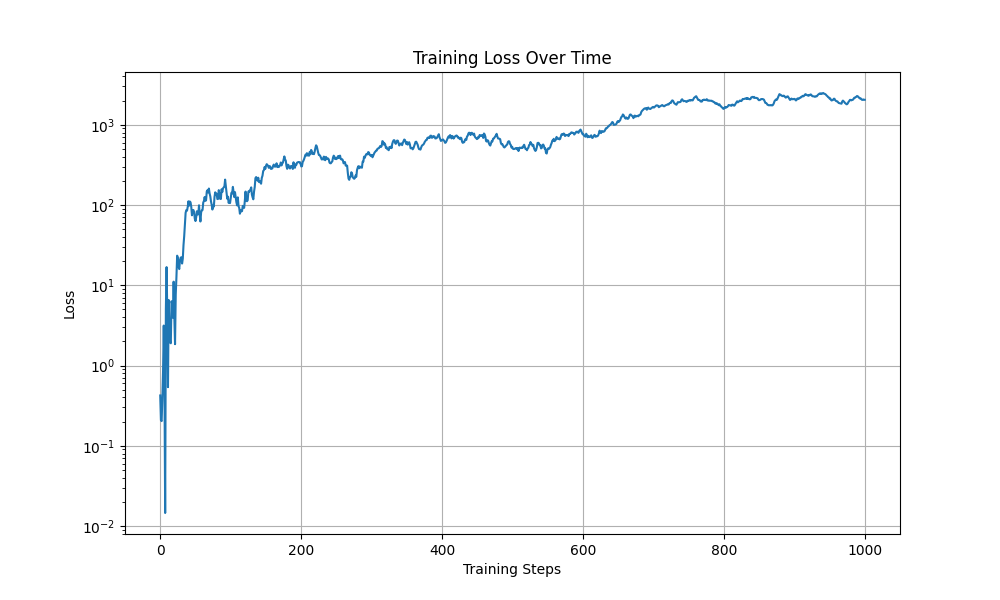
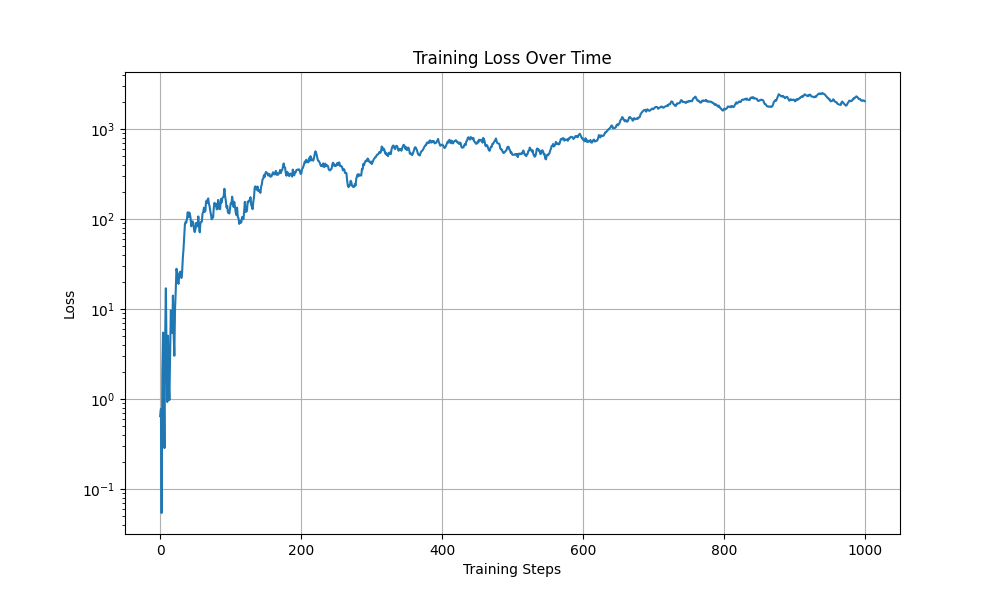
sysid not working

diff --git a/deluca/experimental/experiments.py b/deluca/experimental/experiments.py
@@ -13,7 +13,6 @@ import jax.numpy as jnp
 import matplotlib.pyplot as plt
 import optax
 from jax import debug as jax_debug
-import numpy as np
 
 from deluca.experimental.agents.agent import policy_loss, update_agentstate, AgentState
 from deluca.experimental.agents.gpc import get_gpc_features
@@ -92,7 +91,7 @@ def run_trial(
     # B: jnp.ndarray,
     # Q: jnp.ndarray,
     # R: jnp.ndarray,
-) -> Any:
+) -> jnp.ndarray:
     """Run a single trial."""
     # Create simulator and cost function
     if config.sim_type == 'lds':
@@ -100,8 +99,8 @@ def run_trial(
         A, B = create_random_system(A_B_key, config.d, config.n, config.min_eig, config.max_eig)
         key, Q_R_key = jax.random.split(key)
         Q, R = create_random_cost_matrices(Q_R_key, config.d, config.n)
-        if config.debug:
-            print(f'A.shape={A.shape}, B.shape={B.shape}, Q.shape={Q.shape}, R.shape={R.shape}')
+        # if config.debug:
+        #     print(f'A.shape={A.shape}, B.shape={B.shape}, Q.shape={Q.shape}, R.shape={R.shape}')
 
         sim = functools.partial(lds_sim, A=A, B=B)
         output_map = functools.partial(lds_output, C=jnp.eye(config.d))  # Identity output map
@@ -189,17 +188,15 @@ def run_trial(
     def scan_body(carry, t):
         agentstate, physical_state, key = carry
         # if config.debug:
-            # jax_debug.print('--- Step {} ---', t)
-            # jax_debug.print('agentstate.controller_t: {}', agentstate.controller_t)
-            # jax_debug.print('physical_state: {}', physical_state)
+        #     jax_debug.print('--- Step {} ---', t)
+        #     jax_debug.print('agentstate.controller_t: {}', agentstate.controller_t)
+        #     jax_debug.print('physical_state: {}', physical_state)
         # Get action from model
         actions = model.apply(agentstate.params, get_features(config.m, agentstate.dist_history))
         action = actions[0]
-        if config.debug:
-            action_dist_history = agentstate.dist_history
         # if config.debug:
-            # jax_debug.print('actions shape: {}', actions.shape)
-
+        #     jax_debug.print('actions shape: {}', actions.shape)
+        #     jax_debug.print('action: {}', action)
         # Step the environment
         key1, key2 = jax.random.split(key)
         next_physical_state, output = step(
@@ -225,20 +222,17 @@ def run_trial(
             debug=config.debug
         )
         # Update physical state for next iteration
-        # physical_state = next_physical_state
+        physical_state = next_physical_state
         # Compute loss for reporting
         loss = loss_fn(agentstate.params, agentstate.dist_history, agentstate.state_history[0])
         
         new_carry = (agentstate, next_physical_state, key2)
-        if config.debug:
-            return new_carry, (loss, physical_state, next_physical_state, action, action_dist_history, agentstate.dist_history, sim(physical_state, action))
-        else:
-            return new_carry, loss
+        return new_carry, loss
 
     # Run simulation with scan
     initial_carry = (initial_agentstate, initial_physical_state, loop_key)
-    
     (_, _, _), losses = jax.lax.scan(scan_body, initial_carry, jnp.arange(config.num_steps))
+    
     return losses
 
 def main():
@@ -269,74 +263,50 @@ def main():
     jitted_vmapped_run_trial = jax.jit(vmapped_run_trial)
     
     print("Compiling and running trials... (this may take a moment)")
-    all_losses = jitted_vmapped_run_trial(trial_keys)/config.k
-    # all_losses.block_until_ready() # Wait for all computations to finish
+    all_losses = jitted_vmapped_run_trial(trial_keys)
+    all_losses.block_until_ready() # Wait for all computations to finish
     print("--- All trials completed ---")
-    if config.debug:
-        loss, physical_state, next_physical_state, action, action_dist_history, agentstate_dist_history, sim_seq = all_losses
-        
-        # Save all debug arrays to .txt files
-        base_name = f"{config.sim_type}_{config.model_type}_{config.algorithm_type}"
-        arrays_dir = os.path.join('results', 'arrays')
-        os.makedirs(arrays_dir, exist_ok=True)
-        array_dict = {
-            'loss': loss,
-            'physical_state': physical_state,
-            'next_physical_state': next_physical_state,
-            'action': action,
-            'action_dist_history': action_dist_history,
-            'agentstate_dist_history': agentstate_dist_history,
-            'sim_seq': sim_seq,
-        }
-        for name, arr in array_dict.items():
-            arr_np = np.asarray(arr)  # Convert JAX array to numpy
-            path = os.path.join(arrays_dir, f"{base_name}_{name}.txt")
-            with open(path, 'w') as f:
-                f.write(np.array2string(arr_np, threshold=1000, max_line_width=120))
-            print(f"Saved {name} to {path}")
 
-    else:
+    # Compute mean and standard error
+    mean_losses = jnp.mean(all_losses, axis=0)
+    std_losses = jnp.std(all_losses, axis=0) / jnp.sqrt(config.num_trials)
 
-        # Compute mean and standard error
-        mean_losses = jnp.mean(all_losses, axis=0)
-        std_losses = jnp.std(all_losses, axis=0) / jnp.sqrt(config.num_trials)
+    # Create results subdirectories
+    results_dir = 'results'
+    plots_dir = os.path.join(results_dir, 'plots')
+    arrays_dir = os.path.join(results_dir, 'arrays')
+    os.makedirs(plots_dir, exist_ok=True)
+    os.makedirs(arrays_dir, exist_ok=True)
 
-        # Create results subdirectories
-        results_dir = 'results'
-        plots_dir = os.path.join(results_dir, 'plots')
-        arrays_dir = os.path.join(results_dir, 'arrays')
-        os.makedirs(plots_dir, exist_ok=True)
-        os.makedirs(arrays_dir, exist_ok=True)
+    # Save mean_losses and std_losses as .npy files in arrays_dir
+    base_name = f"{config.sim_type}_{config.model_type}_{config.algorithm_type}"
+    mean_path = os.path.join(arrays_dir, f"{base_name}_mean_losses.npy")
+    std_path = os.path.join(arrays_dir, f"{base_name}_std_losses.npy")
+    jnp.save(mean_path, mean_losses)
+    jnp.save(std_path, std_losses)
+    print(f"Mean losses saved to {mean_path}")
+    print(f"Std losses saved to {std_path}")
 
-        # Save mean_losses and std_losses as .npy files in arrays_dir
-        base_name = f"{config.sim_type}_{config.model_type}_{config.algorithm_type}"
-        mean_path = os.path.join(arrays_dir, f"{base_name}_mean_losses.npy")
-        std_path = os.path.join(arrays_dir, f"{base_name}_std_losses.npy")
-        jnp.save(mean_path, mean_losses)
-        jnp.save(std_path, std_losses)
-        print(f"Mean losses saved to {mean_path}")
-        print(f"Std losses saved to {std_path}")
-
-        # Plot results
-        plt.figure(figsize=(10, 6))
-        plt.plot(mean_losses, label='Mean Loss')
-        plt.fill_between(
-            range(len(mean_losses)),
-            mean_losses - std_losses,
-            mean_losses + std_losses,
-            alpha=0.2
-        )
-        plt.xlabel('Step')
-        plt.ylabel('Loss')
-        plt.title(f'{config.sim_type} {config.model_type} {config.algorithm_type} Performance')
-        plt.legend()
-        plt.grid(True)
-        
-        # Save the figure in plots_dir
-        filename = f"{base_name}_performance.png"
-        filepath = os.path.join(plots_dir, filename)
-        plt.savefig(filepath)
-        print(f"Plot saved to {filepath}")
+    # Plot results
+    plt.figure(figsize=(10, 6))
+    plt.plot(mean_losses, label='Mean Loss')
+    plt.fill_between(
+        range(len(mean_losses)),
+        mean_losses - std_losses,
+        mean_losses + std_losses,
+        alpha=0.2
+    )
+    plt.xlabel('Step')
+    plt.ylabel('Loss')
+    plt.title(f'{config.sim_type} {config.model_type} {config.algorithm_type} Performance')
+    plt.legend()
+    plt.grid(True)
+    
+    # Save the figure in plots_dir
+    filename = f"{base_name}_performance.png"
+    filepath = os.path.join(plots_dir, filename)
+    plt.savefig(filepath)
+    print(f"Plot saved to {filepath}")
 
 if __name__ == '__main__':
     main() 

diff --git a/deluca/sysid/experiment.py b/deluca/sysid/experiment.py
@@ -19,10 +19,10 @@ def loss_fn(M_specrtal_parameter, state, u_vector, filter_matrix):
     # M_spectral_parameter: (k, d_in, d_out)
     # temp: (k, d_in, 1)
     # Contract along k and d_in dimensions to get (d_out, 1)
-    y_hat = jnp.tensordot(M_specrtal_parameter, temp, axes=[[0,1], [0,1]])
+    y_hat = jnp.tensordot(M_specrtal_parameter, jax.lax.stop_gradient(temp), axes=[[0,1], [0,1]])
     #   y_hat = jnp.einsum('kdm,kd1->m1', M_specrtal_parameter, temp) # d_out, 1
 
-    return jnp.sum((state - y_hat)**2)
+    return jnp.sum((jax.lax.stop_gradient(state) - y_hat)**2)
 
 grad_fn = jax.grad(loss_fn, argnums=0)
 
@@ -36,13 +36,14 @@ def get_filters(L: int, k: int = 24):
     return jnp.array(evecs[::-1, -k:] * (evals[-k:] ** 0.25))
 
 # Create a Hilbert matrix of order T
-def spectral_sysid(key, sim , d_in, d_out, T = 1000, k = 24):
+def spectral_sysid(key, sim , d_in, d_out, T = 1000, k = 24, R_M=1.0):
     key, subkey = jax.random.split(key)
     filter_matrix = get_filters(T, k)
     print(filter_matrix.shape)
     state = jax.random.normal(subkey,(d_out,1))
     u_vector = jnp.zeros((T,d_in,1))
-    M_specrtal_parameter = jnp.zeros((k, d_in, d_out))
+    key, subkey = jax.random.split(key)
+    M_specrtal_parameter = jax.random.normal(subkey, (k, d_in, d_out)) * 0.1
     for t in range(10000):
         key, subkey = jax.random.split(key)
         u = jax.random.normal(subkey,(d_in,1))
@@ -55,6 +56,7 @@ def spectral_sysid(key, sim , d_in, d_out, T = 1000, k = 24):
         loss = loss_fn(M_specrtal_parameter, state, u_vector, filter_matrix)
         grads = grad_fn(M_specrtal_parameter, state, u_vector, filter_matrix)
         M_specrtal_parameter = M_specrtal_parameter - 0.0001 * grads
+        M_specrtal_parameter = R_M * M_specrtal_parameter / (jnp.linalg.norm(M_specrtal_parameter) + 1e-8)
         # M_specrtal_parameter = M_specrtal_parameter - 0.001 * temp @ (state - y_hat).T
     
         print(f"Loss: {loss}")
